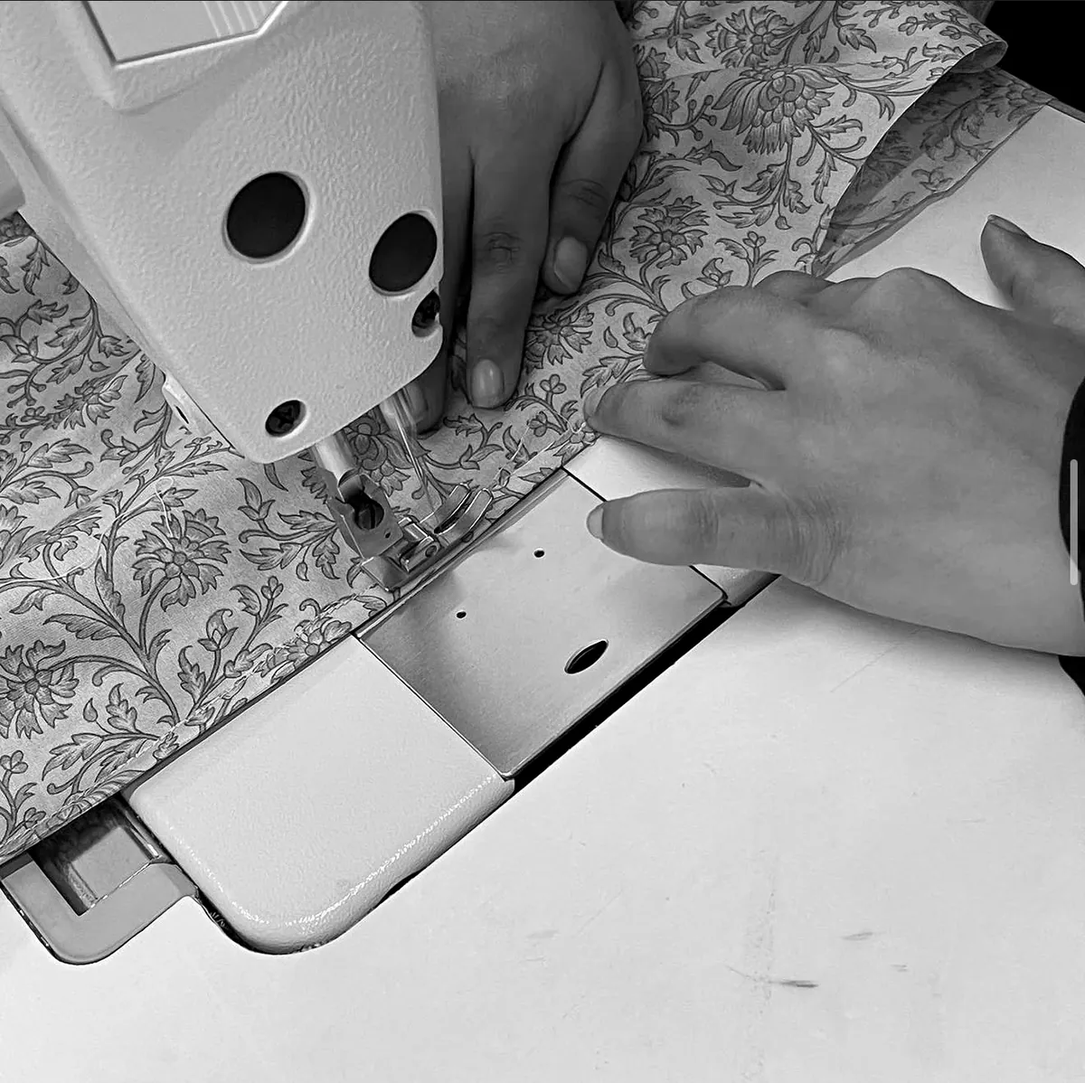
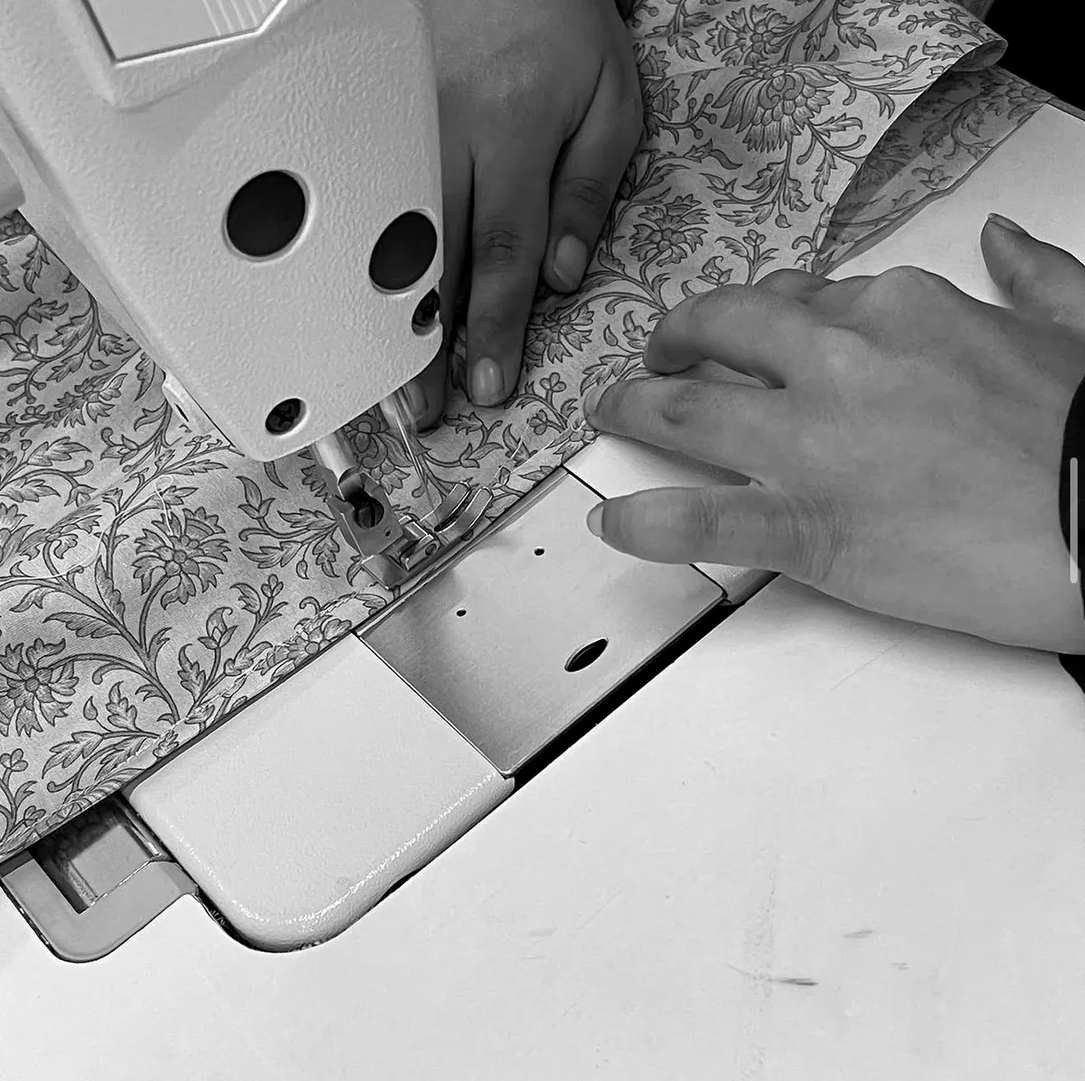
Scan every image for edge bands; two more found and cropped
All 17 apparel images are clean — the five already fixed were the only ones in
that set. Scanning the rest of the site turned up two more:
  hm-01              bottom 2px
  fac-stitch-detail  top    1px

Both confirmed as artifacts rather than dark content before cropping: each is
near-black and uniform along its length (std 3.8 and 5.2) with a sharp jump at
the boundary (48 and 83), unlike the false positive on ap-01, where the fall
was gradual and turned out to be the black dress.

Both reprocessed from source rather than re-cropping the already-processed
files, so there is no second round of resampling.

The detector was validated against the five known bands first: it found all of
them at exactly the right depths with no false positives across the other
twelve Clothing sources. Final scan: 35 images, 0 bands.

diff --git a/index.html b/index.html
@@ -142,7 +142,7 @@
     <span class="eyebrow" data-rise>Our products</span>
     <h2 data-rise style="margin-bottom:1.8rem">What we make</h2>
   </div>
-  <div class="wrap" style="padding-inline:0"><div data-tabs><div class="tabs" role="tablist" aria-label="Product categories"><button class="tab" role="tab" id="b-ap" aria-controls="q-ap" aria-selected="true">Apparel</button><button class="tab" role="tab" id="b-hm" aria-controls="q-hm" aria-selected="false" tabindex="-1">Home &amp; Accessories</button></div><div class="panel" id="q-ap" role="tabpanel" aria-labelledby="b-ap"><div class="marquee prodband"><div class="marquee__track"><figure><picture><source srcset="assets/img/ap-01.webp" type="image/webp"><img src="assets/img/ap-01.jpg" alt="Black midi dress with gathered sleeves" width="1000" height="1148" sizes="260px" loading="lazy" decoding="async"></picture></figure><figure><picture><source srcset="assets/img/ap-10.webp" type="image/webp"><img src="assets/img/ap-10.jpg" alt="Striped waistcoat and matching trousers" width="1000" height="1216" sizes="260px" loading="lazy" decoding="async"></picture></figure><figure><picture><source srcset="assets/img/ap-12.webp" type="image/webp"><img src="assets/img/ap-12.jpg" alt="Long-line stone trench coat" width="893" height="1281" sizes="260px" loading="lazy" decoding="async"></picture></figure><figure><picture><source srcset="assets/img/ap-13.webp" type="image/webp"><img src="assets/img/ap-13.jpg" alt="White cotton shirt with open back detail" width="947" height="1271" sizes="260px" loading="lazy" decoding="async"></picture></figure><figure><picture><source srcset="assets/img/ap-03.webp" type="image/webp"><img src="assets/img/ap-03.jpg" alt="Oversized white cotton shirt" width="1000" height="1576" sizes="260px" loading="lazy" decoding="async"></picture></figure><figure><picture><source srcset="assets/img/ap-11.webp" type="image/webp"><img src="assets/img/ap-11.jpg" alt="Black cotton midi sundress" width="1000" height="1426" sizes="260px" loading="lazy" decoding="async"></picture></figure><figure><picture><source srcset="assets/img/ap-06.webp" type="image/webp"><img src="assets/img/ap-06.jpg" alt="Indigo belted jacket and shorts co-ord" width="1000" height="1639" sizes="260px" loading="lazy" decoding="async"></picture></figure><figure><picture><source srcset="assets/img/ap-05.webp" type="image/webp"><img src="assets/img/ap-05.jpg" alt="Sleeveless white overshirt" width="1000" height="1368" sizes="260px" loading="lazy" decoding="async"></picture></figure><figure><picture><source srcset="assets/img/ap-08.webp" type="image/webp"><img src="assets/img/ap-08.jpg" alt="Black cotton dress with puff sleeves" width="1000" height="1508" sizes="260px" loading="lazy" decoding="async"></picture></figure><figure><picture><source srcset="assets/img/ap-09.webp" type="image/webp"><img src="assets/img/ap-09.jpg" alt="Oversized linen blazer" width="1000" height="1199" sizes="260px" loading="lazy" decoding="async"></picture></figure><figure><picture><source srcset="assets/img/ap-04.webp" type="image/webp"><img src="assets/img/ap-04.jpg" alt="White shirt worn with straight-leg denim" width="1000" height="1555" sizes="260px" loading="lazy" decoding="async"></picture></figure><figure><picture><source srcset="assets/img/ap-02.webp" type="image/webp"><img src="assets/img/ap-02.jpg" alt="Tailored black blazer and trousers" width="1000" height="1344" sizes="260px" loading="lazy" decoding="async"></picture></figure><figure><picture><source srcset="assets/img/ap-07.webp" type="image/webp"><img src="assets/img/ap-07.jpg" alt="Denim workwear jacket and jeans" width="1000" height="1387" sizes="260px" loading="lazy" decoding="async"></picture></figure><figure><picture><source srcset="assets/img/re-02.webp" type="image/webp"><img src="assets/img/re-02.jpg" alt="Ikat print kaftan dress" width="1100" height="1334" sizes="260px" loading="lazy" decoding="async"></picture></figure><figure><picture><source srcset="assets/img/re-03.webp" type="image/webp"><img src="assets/img/re-03.jpg" alt="Ikat print shirt, flat lay" width="1000" height="1147" sizes="260px" loading="lazy" decoding="async"></picture></figure><figure><picture><source srcset="assets/img/re-04.webp" type="image/webp"><img src="assets/img/re-04.jpg" alt="Ikat print co-ord photographed outdoors" width="988" height="1316" sizes="260px" loading="lazy" decoding="async"></picture></figure><figure><picture><source srcset="assets/img/ap-14.webp" type="image/webp"><img src="assets/img/ap-14.jpg" alt="Olive linen jumpsuit with button placket" width="747" height="1120" sizes="260px" loading="lazy" decoding="async"></picture></figure><figure><picture><source srcset="assets/img/ap-15.webp" type="image/webp"><img src="assets/img/ap-15.jpg" alt="Pink oversized shirt with wide cuffs" width="853" height="1280" sizes="260px" loading="lazy" decoding="async"></picture></figure><figure><picture><source srcset="assets/img/ap-16.webp" type="image/webp"><img src="assets/img/ap-16.jpg" alt="Red linen shirt and shorts co-ord" width="853" height="1280" sizes="260px" loading="lazy" decoding="async"></picture></figure><figure><picture><source srcset="assets/img/ap-17.webp" type="image/webp"><img src="assets/img/ap-17.jpg" alt="Teal cami top and trousers set" width="747" height="1120" sizes="260px" loading="lazy" decoding="async"></picture></figure><span aria-hidden="true" style="display:contents"><figure><picture><source srcset="assets/img/ap-01.webp" type="image/webp"><img src="assets/img/ap-01.jpg" alt="Black midi dress with gathered sleeves" width="1000" height="1148" sizes="260px" loading="lazy" decoding="async"></picture></figure><figure><picture><source srcset="assets/img/ap-10.webp" type="image/webp"><img src="assets/img/ap-10.jpg" alt="Striped waistcoat and matching trousers" width="1000" height="1216" sizes="260px" loading="lazy" decoding="async"></picture></figure><figure><picture><source srcset="assets/img/ap-12.webp" type="image/webp"><img src="assets/img/ap-12.jpg" alt="Long-line stone trench coat" width="893" height="1281" sizes="260px" loading="lazy" decoding="async"></picture></figure><figure><picture><source srcset="assets/img/ap-13.webp" type="image/webp"><img src="assets/img/ap-13.jpg" alt="White cotton shirt with open back detail" width="947" height="1271" sizes="260px" loading="lazy" decoding="async"></picture></figure><figure><picture><source srcset="assets/img/ap-03.webp" type="image/webp"><img src="assets/img/ap-03.jpg" alt="Oversized white cotton shirt" width="1000" height="1576" sizes="260px" loading="lazy" decoding="async"></picture></figure><figure><picture><source srcset="assets/img/ap-11.webp" type="image/webp"><img src="assets/img/ap-11.jpg" alt="Black cotton midi sundress" width="1000" height="1426" sizes="260px" loading="lazy" decoding="async"></picture></figure><figure><picture><source srcset="assets/img/ap-06.webp" type="image/webp"><img src="assets/img/ap-06.jpg" alt="Indigo belted jacket and shorts co-ord" width="1000" height="1639" sizes="260px" loading="lazy" decoding="async"></picture></figure><figure><picture><source srcset="assets/img/ap-05.webp" type="image/webp"><img src="assets/img/ap-05.jpg" alt="Sleeveless white overshirt" width="1000" height="1368" sizes="260px" loading="lazy" decoding="async"></picture></figure><figure><picture><source srcset="assets/img/ap-08.webp" type="image/webp"><img src="assets/img/ap-08.jpg" alt="Black cotton dress with puff sleeves" width="1000" height="1508" sizes="260px" loading="lazy" decoding="async"></picture></figure><figure><picture><source srcset="assets/img/ap-09.webp" type="image/webp"><img src="assets/img/ap-09.jpg" alt="Oversized linen blazer" width="1000" height="1199" sizes="260px" loading="lazy" decoding="async"></picture></figure><figure><picture><source srcset="assets/img/ap-04.webp" type="image/webp"><img src="assets/img/ap-04.jpg" alt="White shirt worn with straight-leg denim" width="1000" height="1555" sizes="260px" loading="lazy" decoding="async"></picture></figure><figure><picture><source srcset="assets/img/ap-02.webp" type="image/webp"><img src="assets/img/ap-02.jpg" alt="Tailored black blazer and trousers" width="1000" height="1344" sizes="260px" loading="lazy" decoding="async"></picture></figure><figure><picture><source srcset="assets/img/ap-07.webp" type="image/webp"><img src="assets/img/ap-07.jpg" alt="Denim workwear jacket and jeans" width="1000" height="1387" sizes="260px" loading="lazy" decoding="async"></picture></figure><figure><picture><source srcset="assets/img/re-02.webp" type="image/webp"><img src="assets/img/re-02.jpg" alt="Ikat print kaftan dress" width="1100" height="1334" sizes="260px" loading="lazy" decoding="async"></picture></figure><figure><picture><source srcset="assets/img/re-03.webp" type="image/webp"><img src="assets/img/re-03.jpg" alt="Ikat print shirt, flat lay" width="1000" height="1147" sizes="260px" loading="lazy" decoding="async"></picture></figure><figure><picture><source srcset="assets/img/re-04.webp" type="image/webp"><img src="assets/img/re-04.jpg" alt="Ikat print co-ord photographed outdoors" width="988" height="1316" sizes="260px" loading="lazy" decoding="async"></picture></figure><figure><picture><source srcset="assets/img/ap-14.webp" type="image/webp"><img src="assets/img/ap-14.jpg" alt="Olive linen jumpsuit with button placket" width="747" height="1120" sizes="260px" loading="lazy" decoding="async"></picture></figure><figure><picture><source srcset="assets/img/ap-15.webp" type="image/webp"><img src="assets/img/ap-15.jpg" alt="Pink oversized shirt with wide cuffs" width="853" height="1280" sizes="260px" loading="lazy" decoding="async"></picture></figure><figure><picture><source srcset="assets/img/ap-16.webp" type="image/webp"><img src="assets/img/ap-16.jpg" alt="Red linen shirt and shorts co-ord" width="853" height="1280" sizes="260px" loading="lazy" decoding="async"></picture></figure><figure><picture><source srcset="assets/img/ap-17.webp" type="image/webp"><img src="assets/img/ap-17.jpg" alt="Teal cami top and trousers set" width="747" height="1120" sizes="260px" loading="lazy" decoding="async"></picture></figure></span></div></div></div><div class="panel" id="q-hm" role="tabpanel" aria-labelledby="b-hm" hidden><div class="marquee prodband"><div class="marquee__track"><figure><picture><source srcset="assets/img/hm-01.webp" type="image/webp"><img src="assets/img/hm-01.jpg" alt="Cushion covers in assorted weaves and prints" width="1100" height="973" sizes="260px" loading="lazy" decoding="async"></picture></figure><figure><picture><source srcset="assets/img/hm-02.webp" type="image/webp"><img src="assets/img/hm-02.jpg" alt="Neutral textured cushion covers" width="1100" height="815" sizes="260px" loading="lazy" decoding="async"></picture></figure><figure><picture><source srcset="assets/img/product-tote-bag.webp" type="image/webp"><img src="assets/img/product-tote-bag.jpg" alt="Olive green cotton tote bag" width="777" height="922" sizes="260px" loading="lazy" decoding="async"></picture></figure><figure><picture><source srcset="assets/img/product-drawstring-bag.webp" type="image/webp"><img src="assets/img/product-drawstring-bag.jpg" alt="Natural cotton drawstring bag" width="605" height="761" sizes="260px" loading="lazy" decoding="async"></picture></figure><span aria-hidden="true" style="display:contents"><figure><picture><source srcset="assets/img/hm-01.webp" type="image/webp"><img src="assets/img/hm-01.jpg" alt="Cushion covers in assorted weaves and prints" width="1100" height="973" sizes="260px" loading="lazy" decoding="async"></picture></figure><figure><picture><source srcset="assets/img/hm-02.webp" type="image/webp"><img src="assets/img/hm-02.jpg" alt="Neutral textured cushion covers" width="1100" height="815" sizes="260px" loading="lazy" decoding="async"></picture></figure><figure><picture><source srcset="assets/img/product-tote-bag.webp" type="image/webp"><img src="assets/img/product-tote-bag.jpg" alt="Olive green cotton tote bag" width="777" height="922" sizes="260px" loading="lazy" decoding="async"></picture></figure><figure><picture><source srcset="assets/img/product-drawstring-bag.webp" type="image/webp"><img src="assets/img/product-drawstring-bag.jpg" alt="Natural cotton drawstring bag" width="605" height="761" sizes="260px" loading="lazy" decoding="async"></picture></figure></span></div></div></div></div></div>
+  <div class="wrap" style="padding-inline:0"><div data-tabs><div class="tabs" role="tablist" aria-label="Product categories"><button class="tab" role="tab" id="b-ap" aria-controls="q-ap" aria-selected="true">Apparel</button><button class="tab" role="tab" id="b-hm" aria-controls="q-hm" aria-selected="false" tabindex="-1">Home &amp; Accessories</button></div><div class="panel" id="q-ap" role="tabpanel" aria-labelledby="b-ap"><div class="marquee prodband"><div class="marquee__track"><figure><picture><source srcset="assets/img/ap-01.webp" type="image/webp"><img src="assets/img/ap-01.jpg" alt="Black midi dress with gathered sleeves" width="1000" height="1148" sizes="260px" loading="lazy" decoding="async"></picture></figure><figure><picture><source srcset="assets/img/ap-10.webp" type="image/webp"><img src="assets/img/ap-10.jpg" alt="Striped waistcoat and matching trousers" width="1000" height="1216" sizes="260px" loading="lazy" decoding="async"></picture></figure><figure><picture><source srcset="assets/img/ap-12.webp" type="image/webp"><img src="assets/img/ap-12.jpg" alt="Long-line stone trench coat" width="893" height="1281" sizes="260px" loading="lazy" decoding="async"></picture></figure><figure><picture><source srcset="assets/img/ap-13.webp" type="image/webp"><img src="assets/img/ap-13.jpg" alt="White cotton shirt with open back detail" width="947" height="1271" sizes="260px" loading="lazy" decoding="async"></picture></figure><figure><picture><source srcset="assets/img/ap-03.webp" type="image/webp"><img src="assets/img/ap-03.jpg" alt="Oversized white cotton shirt" width="1000" height="1576" sizes="260px" loading="lazy" decoding="async"></picture></figure><figure><picture><source srcset="assets/img/ap-11.webp" type="image/webp"><img src="assets/img/ap-11.jpg" alt="Black cotton midi sundress" width="1000" height="1426" sizes="260px" loading="lazy" decoding="async"></picture></figure><figure><picture><source srcset="assets/img/ap-06.webp" type="image/webp"><img src="assets/img/ap-06.jpg" alt="Indigo belted jacket and shorts co-ord" width="1000" height="1639" sizes="260px" loading="lazy" decoding="async"></picture></figure><figure><picture><source srcset="assets/img/ap-05.webp" type="image/webp"><img src="assets/img/ap-05.jpg" alt="Sleeveless white overshirt" width="1000" height="1368" sizes="260px" loading="lazy" decoding="async"></picture></figure><figure><picture><source srcset="assets/img/ap-08.webp" type="image/webp"><img src="assets/img/ap-08.jpg" alt="Black cotton dress with puff sleeves" width="1000" height="1508" sizes="260px" loading="lazy" decoding="async"></picture></figure><figure><picture><source srcset="assets/img/ap-09.webp" type="image/webp"><img src="assets/img/ap-09.jpg" alt="Oversized linen blazer" width="1000" height="1199" sizes="260px" loading="lazy" decoding="async"></picture></figure><figure><picture><source srcset="assets/img/ap-04.webp" type="image/webp"><img src="assets/img/ap-04.jpg" alt="White shirt worn with straight-leg denim" width="1000" height="1555" sizes="260px" loading="lazy" decoding="async"></picture></figure><figure><picture><source srcset="assets/img/ap-02.webp" type="image/webp"><img src="assets/img/ap-02.jpg" alt="Tailored black blazer and trousers" width="1000" height="1344" sizes="260px" loading="lazy" decoding="async"></picture></figure><figure><picture><source srcset="assets/img/ap-07.webp" type="image/webp"><img src="assets/img/ap-07.jpg" alt="Denim workwear jacket and jeans" width="1000" height="1387" sizes="260px" loading="lazy" decoding="async"></picture></figure><figure><picture><source srcset="assets/img/re-02.webp" type="image/webp"><img src="assets/img/re-02.jpg" alt="Ikat print kaftan dress" width="1100" height="1334" sizes="260px" loading="lazy" decoding="async"></picture></figure><figure><picture><source srcset="assets/img/re-03.webp" type="image/webp"><img src="assets/img/re-03.jpg" alt="Ikat print shirt, flat lay" width="1000" height="1147" sizes="260px" loading="lazy" decoding="async"></picture></figure><figure><picture><source srcset="assets/img/re-04.webp" type="image/webp"><img src="assets/img/re-04.jpg" alt="Ikat print co-ord photographed outdoors" width="988" height="1316" sizes="260px" loading="lazy" decoding="async"></picture></figure><figure><picture><source srcset="assets/img/ap-14.webp" type="image/webp"><img src="assets/img/ap-14.jpg" alt="Olive linen jumpsuit with button placket" width="747" height="1120" sizes="260px" loading="lazy" decoding="async"></picture></figure><figure><picture><source srcset="assets/img/ap-15.webp" type="image/webp"><img src="assets/img/ap-15.jpg" alt="Pink oversized shirt with wide cuffs" width="853" height="1280" sizes="260px" loading="lazy" decoding="async"></picture></figure><figure><picture><source srcset="assets/img/ap-16.webp" type="image/webp"><img src="assets/img/ap-16.jpg" alt="Red linen shirt and shorts co-ord" width="853" height="1280" sizes="260px" loading="lazy" decoding="async"></picture></figure><figure><picture><source srcset="assets/img/ap-17.webp" type="image/webp"><img src="assets/img/ap-17.jpg" alt="Teal cami top and trousers set" width="747" height="1120" sizes="260px" loading="lazy" decoding="async"></picture></figure><span aria-hidden="true" style="display:contents"><figure><picture><source srcset="assets/img/ap-01.webp" type="image/webp"><img src="assets/img/ap-01.jpg" alt="Black midi dress with gathered sleeves" width="1000" height="1148" sizes="260px" loading="lazy" decoding="async"></picture></figure><figure><picture><source srcset="assets/img/ap-10.webp" type="image/webp"><img src="assets/img/ap-10.jpg" alt="Striped waistcoat and matching trousers" width="1000" height="1216" sizes="260px" loading="lazy" decoding="async"></picture></figure><figure><picture><source srcset="assets/img/ap-12.webp" type="image/webp"><img src="assets/img/ap-12.jpg" alt="Long-line stone trench coat" width="893" height="1281" sizes="260px" loading="lazy" decoding="async"></picture></figure><figure><picture><source srcset="assets/img/ap-13.webp" type="image/webp"><img src="assets/img/ap-13.jpg" alt="White cotton shirt with open back detail" width="947" height="1271" sizes="260px" loading="lazy" decoding="async"></picture></figure><figure><picture><source srcset="assets/img/ap-03.webp" type="image/webp"><img src="assets/img/ap-03.jpg" alt="Oversized white cotton shirt" width="1000" height="1576" sizes="260px" loading="lazy" decoding="async"></picture></figure><figure><picture><source srcset="assets/img/ap-11.webp" type="image/webp"><img src="assets/img/ap-11.jpg" alt="Black cotton midi sundress" width="1000" height="1426" sizes="260px" loading="lazy" decoding="async"></picture></figure><figure><picture><source srcset="assets/img/ap-06.webp" type="image/webp"><img src="assets/img/ap-06.jpg" alt="Indigo belted jacket and shorts co-ord" width="1000" height="1639" sizes="260px" loading="lazy" decoding="async"></picture></figure><figure><picture><source srcset="assets/img/ap-05.webp" type="image/webp"><img src="assets/img/ap-05.jpg" alt="Sleeveless white overshirt" width="1000" height="1368" sizes="260px" loading="lazy" decoding="async"></picture></figure><figure><picture><source srcset="assets/img/ap-08.webp" type="image/webp"><img src="assets/img/ap-08.jpg" alt="Black cotton dress with puff sleeves" width="1000" height="1508" sizes="260px" loading="lazy" decoding="async"></picture></figure><figure><picture><source srcset="assets/img/ap-09.webp" type="image/webp"><img src="assets/img/ap-09.jpg" alt="Oversized linen blazer" width="1000" height="1199" sizes="260px" loading="lazy" decoding="async"></picture></figure><figure><picture><source srcset="assets/img/ap-04.webp" type="image/webp"><img src="assets/img/ap-04.jpg" alt="White shirt worn with straight-leg denim" width="1000" height="1555" sizes="260px" loading="lazy" decoding="async"></picture></figure><figure><picture><source srcset="assets/img/ap-02.webp" type="image/webp"><img src="assets/img/ap-02.jpg" alt="Tailored black blazer and trousers" width="1000" height="1344" sizes="260px" loading="lazy" decoding="async"></picture></figure><figure><picture><source srcset="assets/img/ap-07.webp" type="image/webp"><img src="assets/img/ap-07.jpg" alt="Denim workwear jacket and jeans" width="1000" height="1387" sizes="260px" loading="lazy" decoding="async"></picture></figure><figure><picture><source srcset="assets/img/re-02.webp" type="image/webp"><img src="assets/img/re-02.jpg" alt="Ikat print kaftan dress" width="1100" height="1334" sizes="260px" loading="lazy" decoding="async"></picture></figure><figure><picture><source srcset="assets/img/re-03.webp" type="image/webp"><img src="assets/img/re-03.jpg" alt="Ikat print shirt, flat lay" width="1000" height="1147" sizes="260px" loading="lazy" decoding="async"></picture></figure><figure><picture><source srcset="assets/img/re-04.webp" type="image/webp"><img src="assets/img/re-04.jpg" alt="Ikat print co-ord photographed outdoors" width="988" height="1316" sizes="260px" loading="lazy" decoding="async"></picture></figure><figure><picture><source srcset="assets/img/ap-14.webp" type="image/webp"><img src="assets/img/ap-14.jpg" alt="Olive linen jumpsuit with button placket" width="747" height="1120" sizes="260px" loading="lazy" decoding="async"></picture></figure><figure><picture><source srcset="assets/img/ap-15.webp" type="image/webp"><img src="assets/img/ap-15.jpg" alt="Pink oversized shirt with wide cuffs" width="853" height="1280" sizes="260px" loading="lazy" decoding="async"></picture></figure><figure><picture><source srcset="assets/img/ap-16.webp" type="image/webp"><img src="assets/img/ap-16.jpg" alt="Red linen shirt and shorts co-ord" width="853" height="1280" sizes="260px" loading="lazy" decoding="async"></picture></figure><figure><picture><source srcset="assets/img/ap-17.webp" type="image/webp"><img src="assets/img/ap-17.jpg" alt="Teal cami top and trousers set" width="747" height="1120" sizes="260px" loading="lazy" decoding="async"></picture></figure></span></div></div></div><div class="panel" id="q-hm" role="tabpanel" aria-labelledby="b-hm" hidden><div class="marquee prodband"><div class="marquee__track"><figure><picture><source srcset="assets/img/hm-01.webp" type="image/webp"><img src="assets/img/hm-01.jpg" alt="Cushion covers in assorted weaves and prints" width="1100" height="971" sizes="260px" loading="lazy" decoding="async"></picture></figure><figure><picture><source srcset="assets/img/hm-02.webp" type="image/webp"><img src="assets/img/hm-02.jpg" alt="Neutral textured cushion covers" width="1100" height="815" sizes="260px" loading="lazy" decoding="async"></picture></figure><figure><picture><source srcset="assets/img/product-tote-bag.webp" type="image/webp"><img src="assets/img/product-tote-bag.jpg" alt="Olive green cotton tote bag" width="777" height="922" sizes="260px" loading="lazy" decoding="async"></picture></figure><figure><picture><source srcset="assets/img/product-drawstring-bag.webp" type="image/webp"><img src="assets/img/product-drawstring-bag.jpg" alt="Natural cotton drawstring bag" width="605" height="761" sizes="260px" loading="lazy" decoding="async"></picture></figure><span aria-hidden="true" style="display:contents"><figure><picture><source srcset="assets/img/hm-01.webp" type="image/webp"><img src="assets/img/hm-01.jpg" alt="Cushion covers in assorted weaves and prints" width="1100" height="971" sizes="260px" loading="lazy" decoding="async"></picture></figure><figure><picture><source srcset="assets/img/hm-02.webp" type="image/webp"><img src="assets/img/hm-02.jpg" alt="Neutral textured cushion covers" width="1100" height="815" sizes="260px" loading="lazy" decoding="async"></picture></figure><figure><picture><source srcset="assets/img/product-tote-bag.webp" type="image/webp"><img src="assets/img/product-tote-bag.jpg" alt="Olive green cotton tote bag" width="777" height="922" sizes="260px" loading="lazy" decoding="async"></picture></figure><figure><picture><source srcset="assets/img/product-drawstring-bag.webp" type="image/webp"><img src="assets/img/product-drawstring-bag.jpg" alt="Natural cotton drawstring bag" width="605" height="761" sizes="260px" loading="lazy" decoding="async"></picture></figure></span></div></div></div></div></div>
   <div class="wrap"><div class="btns"><a class="btn btn--ghost" href="products.html">See the full range</a></div></div>
 </section>
 

diff --git a/products.html b/products.html
@@ -129,7 +129,7 @@
 </section>
 
 <section class="wrap" style="padding-bottom:var(--s-l)">
-  <div data-rise><div data-tabs><div class="tabs" role="tablist" aria-label="Product categories"><button class="tab" role="tab" id="t-ap" aria-controls="p-ap" aria-selected="true">Apparel</button><button class="tab" role="tab" id="t-hm" aria-controls="p-hm" aria-selected="false" tabindex="-1">Home &amp; Accessories</button></div><div class="panel" id="p-ap" role="tabpanel" aria-labelledby="t-ap"><div class="gal gal--prod" data-showcase data-set="products" data-label="Apparel"><a href="assets/img/ap-01.jpg" data-w="1000" data-h="1148" data-cap="Black midi dress with gathered sleeves"><picture><source srcset="assets/img/ap-01.webp" type="image/webp"><img src="assets/img/ap-01.jpg" alt="Black midi dress with gathered sleeves" width="1000" height="1148" sizes="(min-width:980px) 24vw, (min-width:620px) 46vw, 92vw" loading="lazy" decoding="async"></picture></a><a href="assets/img/ap-10.jpg" data-w="1000" data-h="1216" data-cap="Striped waistcoat and matching trousers"><picture><source srcset="assets/img/ap-10.webp" type="image/webp"><img src="assets/img/ap-10.jpg" alt="Striped waistcoat and matching trousers" width="1000" height="1216" sizes="(min-width:980px) 24vw, (min-width:620px) 46vw, 92vw" loading="lazy" decoding="async"></picture></a><a href="assets/img/ap-12.jpg" data-w="893" data-h="1281" data-cap="Long-line stone trench coat"><picture><source srcset="assets/img/ap-12.webp" type="image/webp"><img src="assets/img/ap-12.jpg" alt="Long-line stone trench coat" width="893" height="1281" sizes="(min-width:980px) 24vw, (min-width:620px) 46vw, 92vw" loading="lazy" decoding="async"></picture></a><a href="assets/img/ap-13.jpg" data-w="947" data-h="1271" data-cap="White cotton shirt with open back detail"><picture><source srcset="assets/img/ap-13.webp" type="image/webp"><img src="assets/img/ap-13.jpg" alt="White cotton shirt with open back detail" width="947" height="1271" sizes="(min-width:980px) 24vw, (min-width:620px) 46vw, 92vw" loading="lazy" decoding="async"></picture></a><a href="assets/img/ap-03.jpg" data-w="1000" data-h="1576" data-cap="Oversized white cotton shirt"><picture><source srcset="assets/img/ap-03.webp" type="image/webp"><img src="assets/img/ap-03.jpg" alt="Oversized white cotton shirt" width="1000" height="1576" sizes="(min-width:980px) 24vw, (min-width:620px) 46vw, 92vw" loading="lazy" decoding="async"></picture></a><a href="assets/img/ap-11.jpg" data-w="1000" data-h="1426" data-cap="Black cotton midi sundress"><picture><source srcset="assets/img/ap-11.webp" type="image/webp"><img src="assets/img/ap-11.jpg" alt="Black cotton midi sundress" width="1000" height="1426" sizes="(min-width:980px) 24vw, (min-width:620px) 46vw, 92vw" loading="lazy" decoding="async"></picture></a><a href="assets/img/ap-06.jpg" data-w="1000" data-h="1639" data-cap="Indigo belted jacket and shorts co-ord"><picture><source srcset="assets/img/ap-06.webp" type="image/webp"><img src="assets/img/ap-06.jpg" alt="Indigo belted jacket and shorts co-ord" width="1000" height="1639" sizes="(min-width:980px) 24vw, (min-width:620px) 46vw, 92vw" loading="lazy" decoding="async"></picture></a><a href="assets/img/ap-05.jpg" data-w="1000" data-h="1368" data-cap="Sleeveless white overshirt"><picture><source srcset="assets/img/ap-05.webp" type="image/webp"><img src="assets/img/ap-05.jpg" alt="Sleeveless white overshirt" width="1000" height="1368" sizes="(min-width:980px) 24vw, (min-width:620px) 46vw, 92vw" loading="lazy" decoding="async"></picture></a><a href="assets/img/ap-08.jpg" data-w="1000" data-h="1508" data-cap="Black cotton dress with puff sleeves"><picture><source srcset="assets/img/ap-08.webp" type="image/webp"><img src="assets/img/ap-08.jpg" alt="Black cotton dress with puff sleeves" width="1000" height="1508" sizes="(min-width:980px) 24vw, (min-width:620px) 46vw, 92vw" loading="lazy" decoding="async"></picture></a><a href="assets/img/ap-09.jpg" data-w="1000" data-h="1199" data-cap="Oversized linen blazer"><picture><source srcset="assets/img/ap-09.webp" type="image/webp"><img src="assets/img/ap-09.jpg" alt="Oversized linen blazer" width="1000" height="1199" sizes="(min-width:980px) 24vw, (min-width:620px) 46vw, 92vw" loading="lazy" decoding="async"></picture></a><a href="assets/img/ap-04.jpg" data-w="1000" data-h="1555" data-cap="White shirt worn with straight-leg denim"><picture><source srcset="assets/img/ap-04.webp" type="image/webp"><img src="assets/img/ap-04.jpg" alt="White shirt worn with straight-leg denim" width="1000" height="1555" sizes="(min-width:980px) 24vw, (min-width:620px) 46vw, 92vw" loading="lazy" decoding="async"></picture></a><a href="assets/img/ap-02.jpg" data-w="1000" data-h="1344" data-cap="Tailored black blazer and trousers"><picture><source srcset="assets/img/ap-02.webp" type="image/webp"><img src="assets/img/ap-02.jpg" alt="Tailored black blazer and trousers" width="1000" height="1344" sizes="(min-width:980px) 24vw, (min-width:620px) 46vw, 92vw" loading="lazy" decoding="async"></picture></a><a href="assets/img/ap-07.jpg" data-w="1000" data-h="1387" data-cap="Denim workwear jacket and jeans"><picture><source srcset="assets/img/ap-07.webp" type="image/webp"><img src="assets/img/ap-07.jpg" alt="Denim workwear jacket and jeans" width="1000" height="1387" sizes="(min-width:980px) 24vw, (min-width:620px) 46vw, 92vw" loading="lazy" decoding="async"></picture></a><a href="assets/img/re-02.jpg" data-w="1100" data-h="1334" data-cap="Ikat print kaftan dress"><picture><source srcset="assets/img/re-02.webp" type="image/webp"><img src="assets/img/re-02.jpg" alt="Ikat print kaftan dress" width="1100" height="1334" sizes="(min-width:980px) 24vw, (min-width:620px) 46vw, 92vw" loading="lazy" decoding="async"></picture></a><a href="assets/img/re-03.jpg" data-w="1000" data-h="1147" data-cap="Ikat print shirt, flat lay"><picture><source srcset="assets/img/re-03.webp" type="image/webp"><img src="assets/img/re-03.jpg" alt="Ikat print shirt, flat lay" width="1000" height="1147" sizes="(min-width:980px) 24vw, (min-width:620px) 46vw, 92vw" loading="lazy" decoding="async"></picture></a><a href="assets/img/re-04.jpg" data-w="988" data-h="1316" data-cap="Ikat print co-ord photographed outdoors"><picture><source srcset="assets/img/re-04.webp" type="image/webp"><img src="assets/img/re-04.jpg" alt="Ikat print co-ord photographed outdoors" width="988" height="1316" sizes="(min-width:980px) 24vw, (min-width:620px) 46vw, 92vw" loading="lazy" decoding="async"></picture></a><a href="assets/img/ap-14.jpg" data-w="747" data-h="1120" data-cap="Olive linen jumpsuit with button placket"><picture><source srcset="assets/img/ap-14.webp" type="image/webp"><img src="assets/img/ap-14.jpg" alt="Olive linen jumpsuit with button placket" width="747" height="1120" sizes="(min-width:980px) 24vw, (min-width:620px) 46vw, 92vw" loading="lazy" decoding="async"></picture></a><a href="assets/img/ap-15.jpg" data-w="853" data-h="1280" data-cap="Pink oversized shirt with wide cuffs"><picture><source srcset="assets/img/ap-15.webp" type="image/webp"><img src="assets/img/ap-15.jpg" alt="Pink oversized shirt with wide cuffs" width="853" height="1280" sizes="(min-width:980px) 24vw, (min-width:620px) 46vw, 92vw" loading="lazy" decoding="async"></picture></a><a href="assets/img/ap-16.jpg" data-w="853" data-h="1280" data-cap="Red linen shirt and shorts co-ord"><picture><source srcset="assets/img/ap-16.webp" type="image/webp"><img src="assets/img/ap-16.jpg" alt="Red linen shirt and shorts co-ord" width="853" height="1280" sizes="(min-width:980px) 24vw, (min-width:620px) 46vw, 92vw" loading="lazy" decoding="async"></picture></a><a href="assets/img/ap-17.jpg" data-w="747" data-h="1120" data-cap="Teal cami top and trousers set"><picture><source srcset="assets/img/ap-17.webp" type="image/webp"><img src="assets/img/ap-17.jpg" alt="Teal cami top and trousers set" width="747" height="1120" sizes="(min-width:980px) 24vw, (min-width:620px) 46vw, 92vw" loading="lazy" decoding="async"></picture></a></div></div><div class="panel" id="p-hm" role="tabpanel" aria-labelledby="t-hm" hidden><div class="gal gal--prod gal--wide" data-showcase data-set="products" data-label="Home &amp; Accessories"><a href="assets/img/hm-01.jpg" data-w="1100" data-h="973" data-cap="Cushion covers in assorted weaves and prints"><picture><source srcset="assets/img/hm-01.webp" type="image/webp"><img src="assets/img/hm-01.jpg" alt="Cushion covers in assorted weaves and prints" width="1100" height="973" sizes="(min-width:980px) 24vw, (min-width:620px) 46vw, 92vw" loading="lazy" decoding="async"></picture></a><a href="assets/img/hm-02.jpg" data-w="1100" data-h="815" data-cap="Neutral textured cushion covers"><picture><source srcset="assets/img/hm-02.webp" type="image/webp"><img src="assets/img/hm-02.jpg" alt="Neutral textured cushion covers" width="1100" height="815" sizes="(min-width:980px) 24vw, (min-width:620px) 46vw, 92vw" loading="lazy" decoding="async"></picture></a><a href="assets/img/product-tote-bag.jpg" data-w="777" data-h="922" data-cap="Olive green cotton tote bag"><picture><source srcset="assets/img/product-tote-bag.webp" type="image/webp"><img src="assets/img/product-tote-bag.jpg" alt="Olive green cotton tote bag" width="777" height="922" sizes="(min-width:980px) 24vw, (min-width:620px) 46vw, 92vw" loading="lazy" decoding="async"></picture></a><a href="assets/img/product-drawstring-bag.jpg" data-w="605" data-h="761" data-cap="Natural cotton drawstring bag"><picture><source srcset="assets/img/product-drawstring-bag.webp" type="image/webp"><img src="assets/img/product-drawstring-bag.jpg" alt="Natural cotton drawstring bag" width="605" height="761" sizes="(min-width:980px) 24vw, (min-width:620px) 46vw, 92vw" loading="lazy" decoding="async"></picture></a></div></div></div></div>
+  <div data-rise><div data-tabs><div class="tabs" role="tablist" aria-label="Product categories"><button class="tab" role="tab" id="t-ap" aria-controls="p-ap" aria-selected="true">Apparel</button><button class="tab" role="tab" id="t-hm" aria-controls="p-hm" aria-selected="false" tabindex="-1">Home &amp; Accessories</button></div><div class="panel" id="p-ap" role="tabpanel" aria-labelledby="t-ap"><div class="gal gal--prod" data-showcase data-set="products" data-label="Apparel"><a href="assets/img/ap-01.jpg" data-w="1000" data-h="1148" data-cap="Black midi dress with gathered sleeves"><picture><source srcset="assets/img/ap-01.webp" type="image/webp"><img src="assets/img/ap-01.jpg" alt="Black midi dress with gathered sleeves" width="1000" height="1148" sizes="(min-width:980px) 24vw, (min-width:620px) 46vw, 92vw" loading="lazy" decoding="async"></picture></a><a href="assets/img/ap-10.jpg" data-w="1000" data-h="1216" data-cap="Striped waistcoat and matching trousers"><picture><source srcset="assets/img/ap-10.webp" type="image/webp"><img src="assets/img/ap-10.jpg" alt="Striped waistcoat and matching trousers" width="1000" height="1216" sizes="(min-width:980px) 24vw, (min-width:620px) 46vw, 92vw" loading="lazy" decoding="async"></picture></a><a href="assets/img/ap-12.jpg" data-w="893" data-h="1281" data-cap="Long-line stone trench coat"><picture><source srcset="assets/img/ap-12.webp" type="image/webp"><img src="assets/img/ap-12.jpg" alt="Long-line stone trench coat" width="893" height="1281" sizes="(min-width:980px) 24vw, (min-width:620px) 46vw, 92vw" loading="lazy" decoding="async"></picture></a><a href="assets/img/ap-13.jpg" data-w="947" data-h="1271" data-cap="White cotton shirt with open back detail"><picture><source srcset="assets/img/ap-13.webp" type="image/webp"><img src="assets/img/ap-13.jpg" alt="White cotton shirt with open back detail" width="947" height="1271" sizes="(min-width:980px) 24vw, (min-width:620px) 46vw, 92vw" loading="lazy" decoding="async"></picture></a><a href="assets/img/ap-03.jpg" data-w="1000" data-h="1576" data-cap="Oversized white cotton shirt"><picture><source srcset="assets/img/ap-03.webp" type="image/webp"><img src="assets/img/ap-03.jpg" alt="Oversized white cotton shirt" width="1000" height="1576" sizes="(min-width:980px) 24vw, (min-width:620px) 46vw, 92vw" loading="lazy" decoding="async"></picture></a><a href="assets/img/ap-11.jpg" data-w="1000" data-h="1426" data-cap="Black cotton midi sundress"><picture><source srcset="assets/img/ap-11.webp" type="image/webp"><img src="assets/img/ap-11.jpg" alt="Black cotton midi sundress" width="1000" height="1426" sizes="(min-width:980px) 24vw, (min-width:620px) 46vw, 92vw" loading="lazy" decoding="async"></picture></a><a href="assets/img/ap-06.jpg" data-w="1000" data-h="1639" data-cap="Indigo belted jacket and shorts co-ord"><picture><source srcset="assets/img/ap-06.webp" type="image/webp"><img src="assets/img/ap-06.jpg" alt="Indigo belted jacket and shorts co-ord" width="1000" height="1639" sizes="(min-width:980px) 24vw, (min-width:620px) 46vw, 92vw" loading="lazy" decoding="async"></picture></a><a href="assets/img/ap-05.jpg" data-w="1000" data-h="1368" data-cap="Sleeveless white overshirt"><picture><source srcset="assets/img/ap-05.webp" type="image/webp"><img src="assets/img/ap-05.jpg" alt="Sleeveless white overshirt" width="1000" height="1368" sizes="(min-width:980px) 24vw, (min-width:620px) 46vw, 92vw" loading="lazy" decoding="async"></picture></a><a href="assets/img/ap-08.jpg" data-w="1000" data-h="1508" data-cap="Black cotton dress with puff sleeves"><picture><source srcset="assets/img/ap-08.webp" type="image/webp"><img src="assets/img/ap-08.jpg" alt="Black cotton dress with puff sleeves" width="1000" height="1508" sizes="(min-width:980px) 24vw, (min-width:620px) 46vw, 92vw" loading="lazy" decoding="async"></picture></a><a href="assets/img/ap-09.jpg" data-w="1000" data-h="1199" data-cap="Oversized linen blazer"><picture><source srcset="assets/img/ap-09.webp" type="image/webp"><img src="assets/img/ap-09.jpg" alt="Oversized linen blazer" width="1000" height="1199" sizes="(min-width:980px) 24vw, (min-width:620px) 46vw, 92vw" loading="lazy" decoding="async"></picture></a><a href="assets/img/ap-04.jpg" data-w="1000" data-h="1555" data-cap="White shirt worn with straight-leg denim"><picture><source srcset="assets/img/ap-04.webp" type="image/webp"><img src="assets/img/ap-04.jpg" alt="White shirt worn with straight-leg denim" width="1000" height="1555" sizes="(min-width:980px) 24vw, (min-width:620px) 46vw, 92vw" loading="lazy" decoding="async"></picture></a><a href="assets/img/ap-02.jpg" data-w="1000" data-h="1344" data-cap="Tailored black blazer and trousers"><picture><source srcset="assets/img/ap-02.webp" type="image/webp"><img src="assets/img/ap-02.jpg" alt="Tailored black blazer and trousers" width="1000" height="1344" sizes="(min-width:980px) 24vw, (min-width:620px) 46vw, 92vw" loading="lazy" decoding="async"></picture></a><a href="assets/img/ap-07.jpg" data-w="1000" data-h="1387" data-cap="Denim workwear jacket and jeans"><picture><source srcset="assets/img/ap-07.webp" type="image/webp"><img src="assets/img/ap-07.jpg" alt="Denim workwear jacket and jeans" width="1000" height="1387" sizes="(min-width:980px) 24vw, (min-width:620px) 46vw, 92vw" loading="lazy" decoding="async"></picture></a><a href="assets/img/re-02.jpg" data-w="1100" data-h="1334" data-cap="Ikat print kaftan dress"><picture><source srcset="assets/img/re-02.webp" type="image/webp"><img src="assets/img/re-02.jpg" alt="Ikat print kaftan dress" width="1100" height="1334" sizes="(min-width:980px) 24vw, (min-width:620px) 46vw, 92vw" loading="lazy" decoding="async"></picture></a><a href="assets/img/re-03.jpg" data-w="1000" data-h="1147" data-cap="Ikat print shirt, flat lay"><picture><source srcset="assets/img/re-03.webp" type="image/webp"><img src="assets/img/re-03.jpg" alt="Ikat print shirt, flat lay" width="1000" height="1147" sizes="(min-width:980px) 24vw, (min-width:620px) 46vw, 92vw" loading="lazy" decoding="async"></picture></a><a href="assets/img/re-04.jpg" data-w="988" data-h="1316" data-cap="Ikat print co-ord photographed outdoors"><picture><source srcset="assets/img/re-04.webp" type="image/webp"><img src="assets/img/re-04.jpg" alt="Ikat print co-ord photographed outdoors" width="988" height="1316" sizes="(min-width:980px) 24vw, (min-width:620px) 46vw, 92vw" loading="lazy" decoding="async"></picture></a><a href="assets/img/ap-14.jpg" data-w="747" data-h="1120" data-cap="Olive linen jumpsuit with button placket"><picture><source srcset="assets/img/ap-14.webp" type="image/webp"><img src="assets/img/ap-14.jpg" alt="Olive linen jumpsuit with button placket" width="747" height="1120" sizes="(min-width:980px) 24vw, (min-width:620px) 46vw, 92vw" loading="lazy" decoding="async"></picture></a><a href="assets/img/ap-15.jpg" data-w="853" data-h="1280" data-cap="Pink oversized shirt with wide cuffs"><picture><source srcset="assets/img/ap-15.webp" type="image/webp"><img src="assets/img/ap-15.jpg" alt="Pink oversized shirt with wide cuffs" width="853" height="1280" sizes="(min-width:980px) 24vw, (min-width:620px) 46vw, 92vw" loading="lazy" decoding="async"></picture></a><a href="assets/img/ap-16.jpg" data-w="853" data-h="1280" data-cap="Red linen shirt and shorts co-ord"><picture><source srcset="assets/img/ap-16.webp" type="image/webp"><img src="assets/img/ap-16.jpg" alt="Red linen shirt and shorts co-ord" width="853" height="1280" sizes="(min-width:980px) 24vw, (min-width:620px) 46vw, 92vw" loading="lazy" decoding="async"></picture></a><a href="assets/img/ap-17.jpg" data-w="747" data-h="1120" data-cap="Teal cami top and trousers set"><picture><source srcset="assets/img/ap-17.webp" type="image/webp"><img src="assets/img/ap-17.jpg" alt="Teal cami top and trousers set" width="747" height="1120" sizes="(min-width:980px) 24vw, (min-width:620px) 46vw, 92vw" loading="lazy" decoding="async"></picture></a></div></div><div class="panel" id="p-hm" role="tabpanel" aria-labelledby="t-hm" hidden><div class="gal gal--prod gal--wide" data-showcase data-set="products" data-label="Home &amp; Accessories"><a href="assets/img/hm-01.jpg" data-w="1100" data-h="971" data-cap="Cushion covers in assorted weaves and prints"><picture><source srcset="assets/img/hm-01.webp" type="image/webp"><img src="assets/img/hm-01.jpg" alt="Cushion covers in assorted weaves and prints" width="1100" height="971" sizes="(min-width:980px) 24vw, (min-width:620px) 46vw, 92vw" loading="lazy" decoding="async"></picture></a><a href="assets/img/hm-02.jpg" data-w="1100" data-h="815" data-cap="Neutral textured cushion covers"><picture><source srcset="assets/img/hm-02.webp" type="image/webp"><img src="assets/img/hm-02.jpg" alt="Neutral textured cushion covers" width="1100" height="815" sizes="(min-width:980px) 24vw, (min-width:620px) 46vw, 92vw" loading="lazy" decoding="async"></picture></a><a href="assets/img/product-tote-bag.jpg" data-w="777" data-h="922" data-cap="Olive green cotton tote bag"><picture><source srcset="assets/img/product-tote-bag.webp" type="image/webp"><img src="assets/img/product-tote-bag.jpg" alt="Olive green cotton tote bag" width="777" height="922" sizes="(min-width:980px) 24vw, (min-width:620px) 46vw, 92vw" loading="lazy" decoding="async"></picture></a><a href="assets/img/product-drawstring-bag.jpg" data-w="605" data-h="761" data-cap="Natural cotton drawstring bag"><picture><source srcset="assets/img/product-drawstring-bag.webp" type="image/webp"><img src="assets/img/product-drawstring-bag.jpg" alt="Natural cotton drawstring bag" width="605" height="761" sizes="(min-width:980px) 24vw, (min-width:620px) 46vw, 92vw" loading="lazy" decoding="async"></picture></a></div></div></div></div>
 </section>
 
 <section class="section section--tint">

diff --git a/capabilities.html b/capabilities.html
@@ -140,7 +140,7 @@
 
 <section class="section">
   <div class="wrap g2">
-    <div data-rise><picture><source srcset="assets/img/fac-stitch-detail.webp" type="image/webp"><img src="assets/img/fac-stitch-detail.jpg" alt="Close inspection of stitching during production" width="1200" height="1198" sizes="(min-width:860px) 46vw, 100vw" loading="lazy" decoding="async"></picture></div>
+    <div data-rise><picture><source srcset="assets/img/fac-stitch-detail.webp" type="image/webp"><img src="assets/img/fac-stitch-detail.jpg" alt="Close inspection of stitching during production" width="1200" height="1196" sizes="(min-width:860px) 46vw, 100vw" loading="lazy" decoding="async"></picture></div>
     <div data-rise>
       <span class="eyebrow">Quality control</span>
       <h2>Checked three<br>times over</h2>
